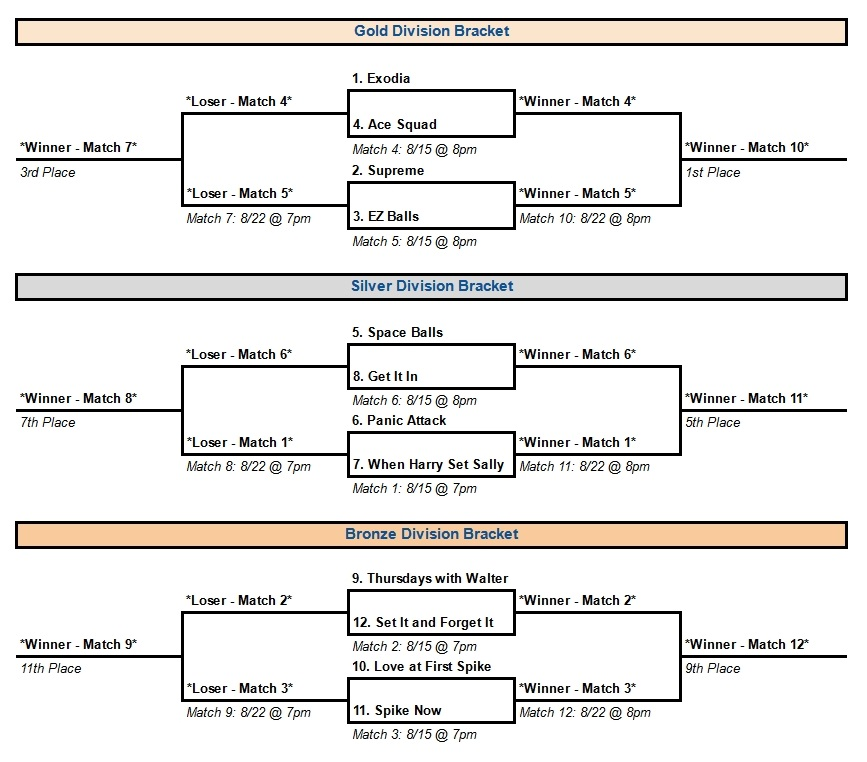
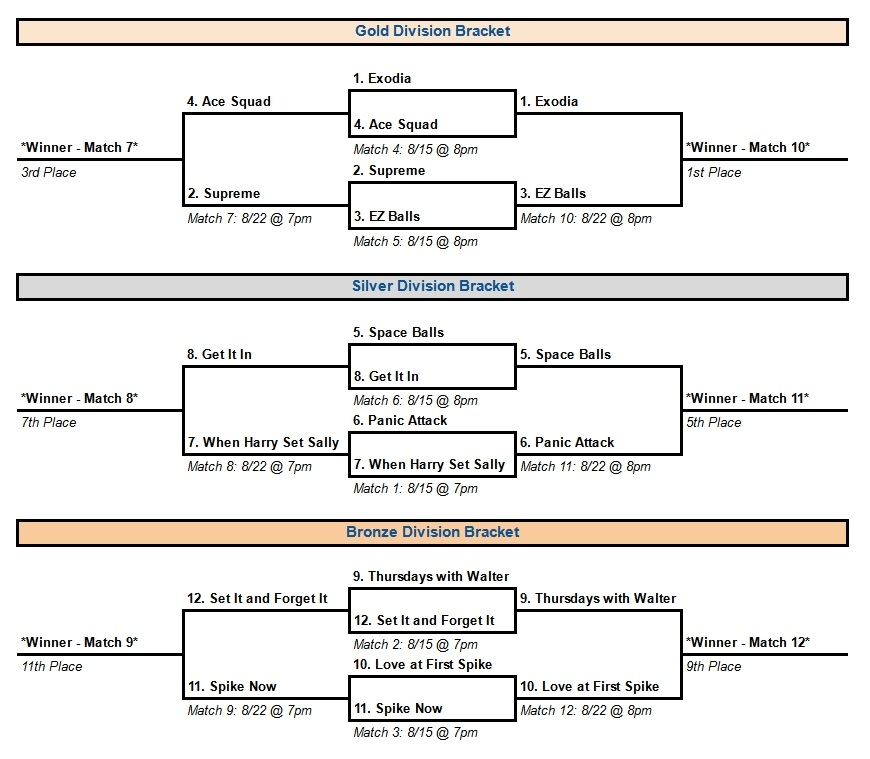
match score

diff --git a/coed/dvb_sum24.html b/coed/dvb_sum24.html
@@ -1421,11 +1421,11 @@
         </tr>
         <tr>
           <td style="width:150px;text-align:left;border-top:solid;border-left:1px solid black;border-right:1px solid black;background-color:GhostWhite;padding-left:3px;">Love at First Spike</td>
-          <td style="width:30px;text-align:center;border-top:solid;border-left:1px solid black;border-right:solid;background-color:GhostWhite;"></td>
+          <td style="width:30px;text-align:center;border-top:solid;border-left:1px solid black;border-right:solid;background-color:GhostWhite;">1</td>
         </tr>
         <tr>
           <td style="width:150px;text-align:left;border-bottom:1px solid black;border-left:1px solid black;border-right:1px solid black;background-color:GhostWhite;padding-left:3px;">Spike Now</td>
-          <td style="width:30px;text-align:center;border-bottom:1px solid black;border-left:1px solid black;border-right:solid;background-color:GhostWhite;"></td>
+          <td style="width:30px;text-align:center;border-bottom:1px solid black;border-left:1px solid black;border-right:solid;background-color:GhostWhite;">0</td>
         </tr>
         <tr>
           <th rowspan="9" style="text-align:center;border-top:solid;border-bottom:solid;border-left:solid;border-right:solid;background-color:LightGray;padding-left:5px;padding-right:5px;">8 PM</th>
@@ -1500,7 +1500,7 @@
           <td style="width:30px;text-align:center;border-top:solid;border-left:1px solid black;border-right:solid;background-color:GhostWhite;"></td>
         </tr>
         <tr>
-          <td style="width:150px;text-align:left;border-bottom:1px solid black;border-left:1px solid black;border-right:1px solid black;background-color:GhostWhite;padding-left:3px;">Loser - Match 3</td>
+          <td style="width:150px;text-align:left;border-bottom:1px solid black;border-left:1px solid black;border-right:1px solid black;background-color:GhostWhite;padding-left:3px;">Spike Now</td>
           <td style="width:30px;text-align:center;border-bottom:1px solid black;border-left:1px solid black;border-right:solid;background-color:GhostWhite;"></td>
         </tr>
         <tr>
@@ -1533,7 +1533,7 @@
           <td style="width:150px;text-align:left;border-top:solid;border-left:1px solid black;background-color:LightGray;padding-left:3px;">Thursdays with Walter</td>
           <td style="width:30px;text-align:center;border-top:solid;border-left:1px solid black;border-right:solid;background-color:LightGray;"></td>
         </tr>
-          <td style="width:150px;text-align:left;border-bottom:solid;border-left:1px solid black;background-color:LightGray;padding-left:3px;">Winner - Match 3</td>
+          <td style="width:150px;text-align:left;border-bottom:solid;border-left:1px solid black;background-color:LightGray;padding-left:3px;">Love at First Spike</td>
           <td style="width:30px;text-align:center;border-bottom:solid;border-left:1px solid black;border-right:solid;background-color:LightGray;"></td>
         <tr>
         </tr>
